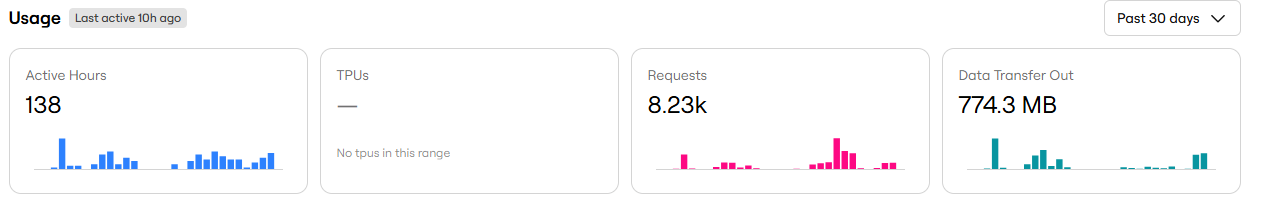
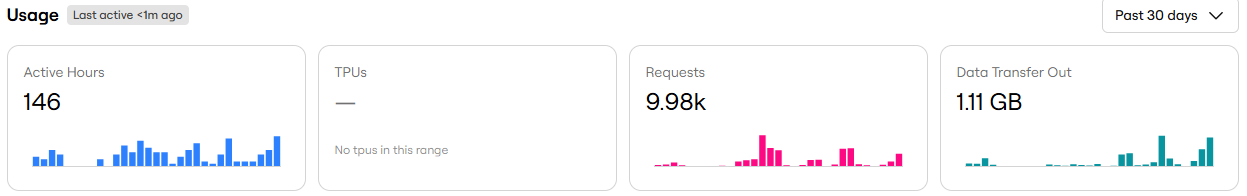
docs(assets): refresh the ngrok usage panel
30-day Usage panel after the repeats and ext25 runs: 146 active hours, 9.98k requests, 1.11 GB out. Cropped to the Usage cards only, so no endpoint URL or account details are shown.

diff --git a/README.md b/README.md
@@ -1627,6 +1627,6 @@ ARVO reproduces findings from Google's [OSS-Fuzz](https://github.com/google/oss-
 
 ## Gateway traffic
 
-The CI eval routes model calls through a LiteLLM gateway behind an ngrok tunnel. The ngrok Usage panel over a 30-day window shows the request volume this generates — 8.23k requests / 774.3 MB transferred across 138 active hours:
+The CI eval routes model calls through a LiteLLM gateway behind an ngrok tunnel. The ngrok Usage panel over a 30-day window shows the request volume this generates — 9.98k requests / 1.11 GB transferred across 146 active hours:
 
-![ngrok endpoint Usage panel over 30 days: 138 Active Hours, no TPUs, 8.23k Requests, and 774.3 MB Data Transfer Out, each with a daily sparkline](assets/ngrok_requests_cropped.png)
+![ngrok endpoint Usage panel over 30 days: 146 Active Hours, no TPUs, 9.98k Requests, and 1.11 GB Data Transfer Out, each with a daily sparkline](assets/ngrok_requests_cropped.png)
